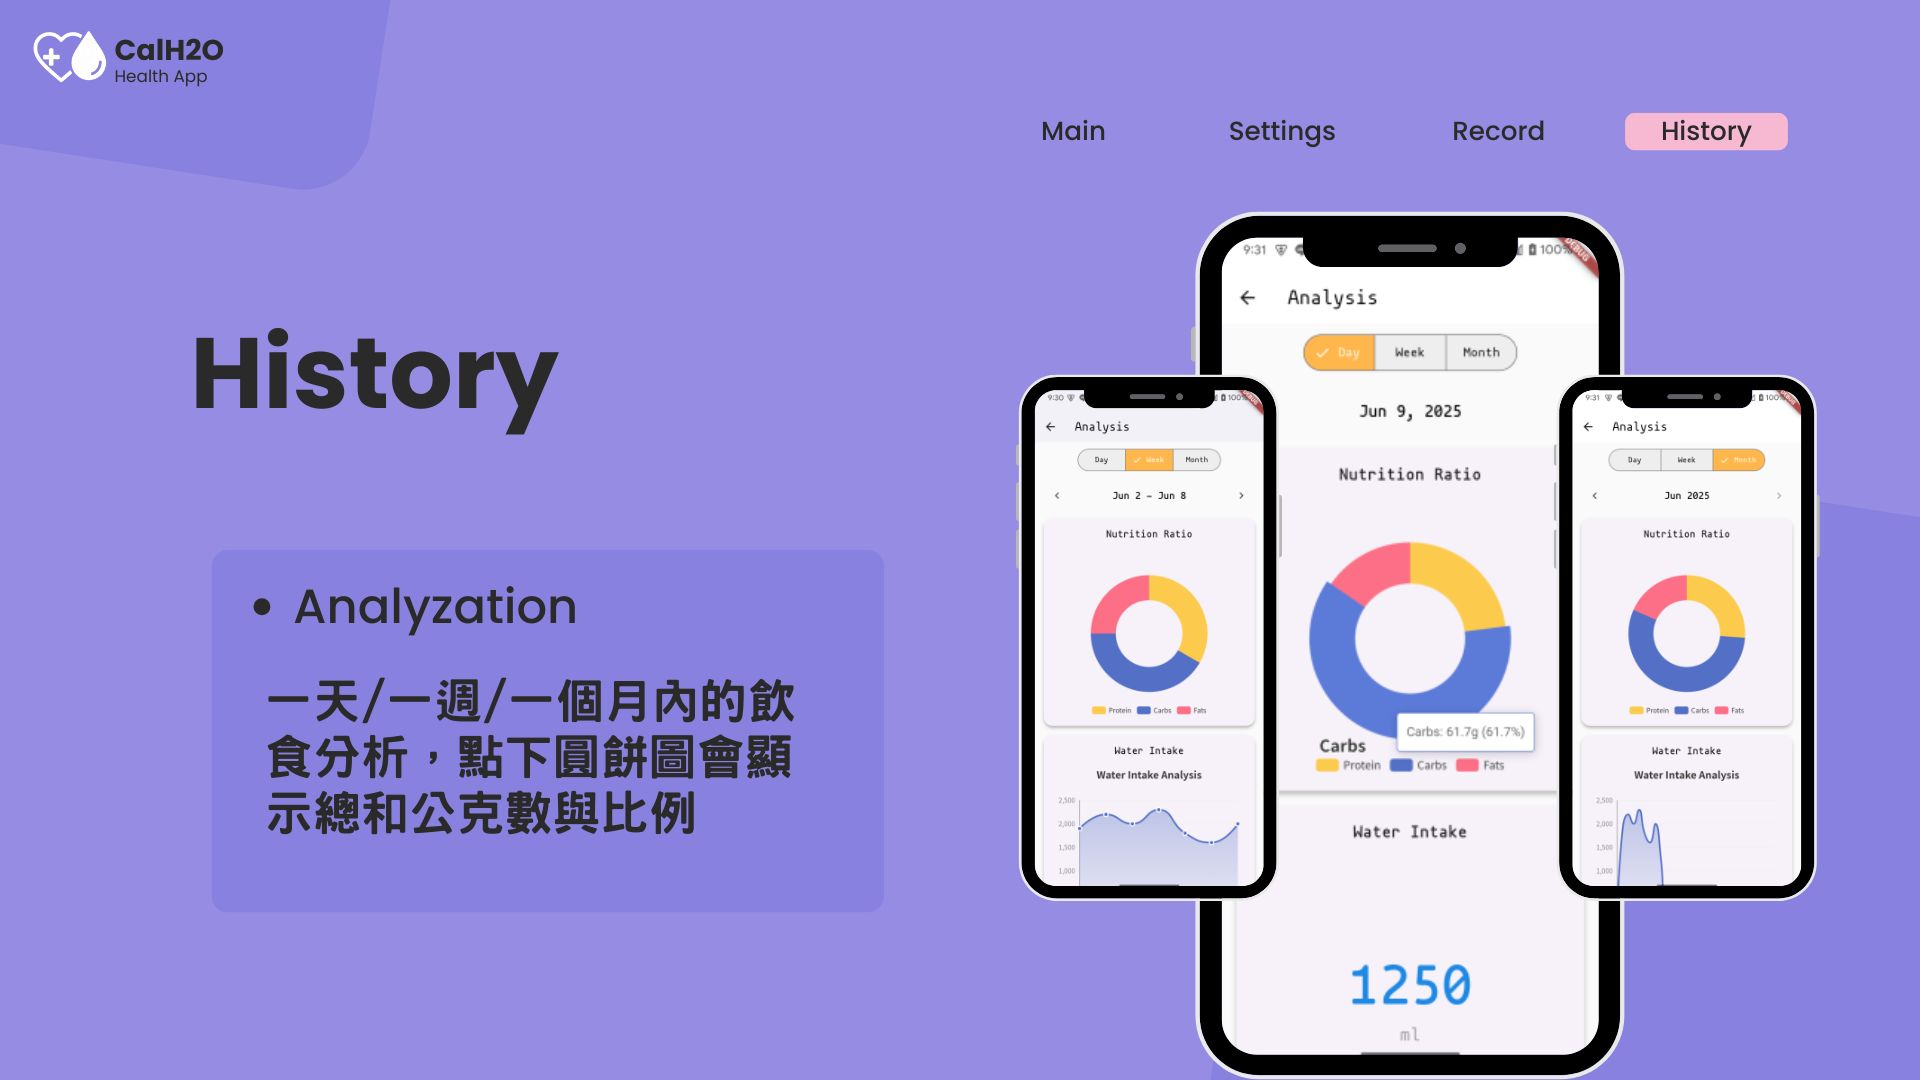
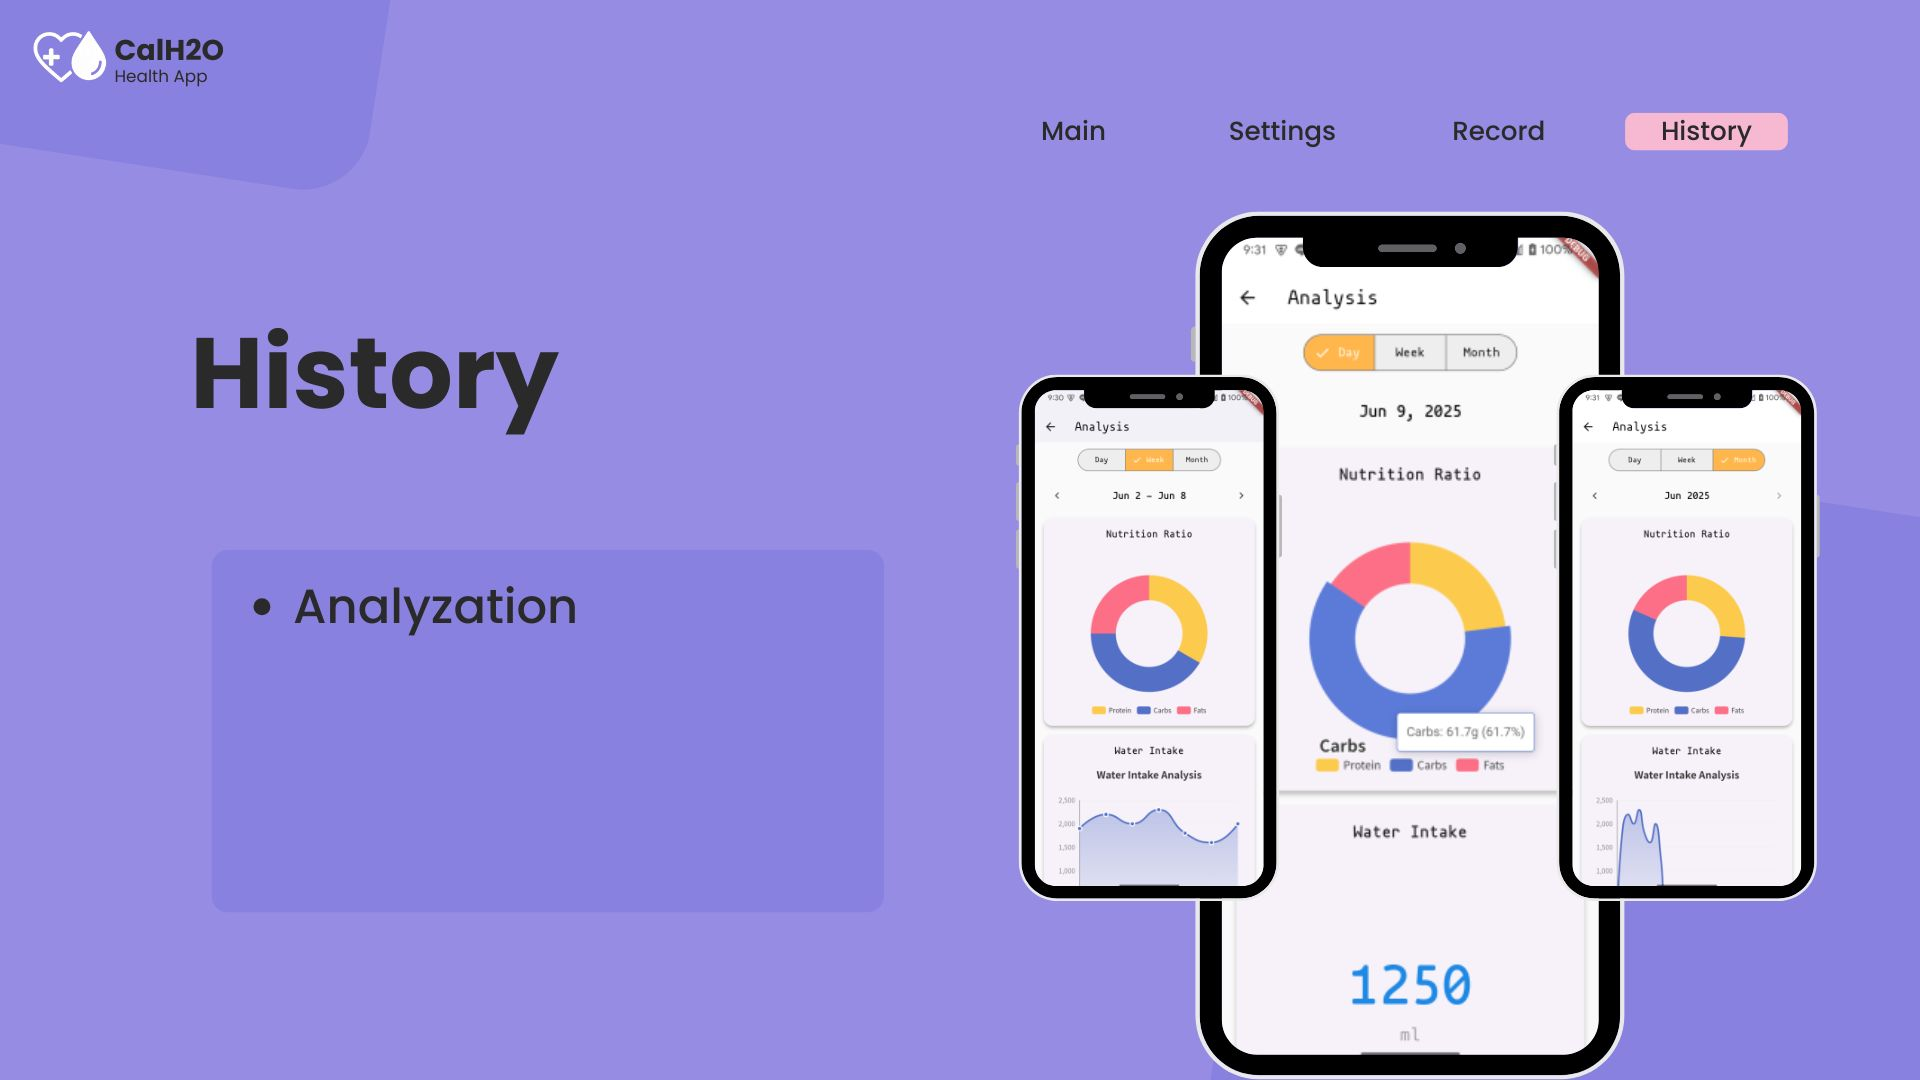
Translate Screenshots Text To English

Changed region(s): [[0.125, 0.6111, 0.4375, 0.7944]]

diff --git a/README.md b/README.md
@@ -4,10 +4,10 @@ A Flutter-based nutrition and hydration tracking app powered by Firebase and AI.
 
 ## Preview
 
-### Login / Info Page
+### Onboarding 
 ![Login](assets/screen_shots/login.jpg)
 
-### Main
+### Home
 ![Main](assets/screen_shots/main.jpg)
 
 ### Record
